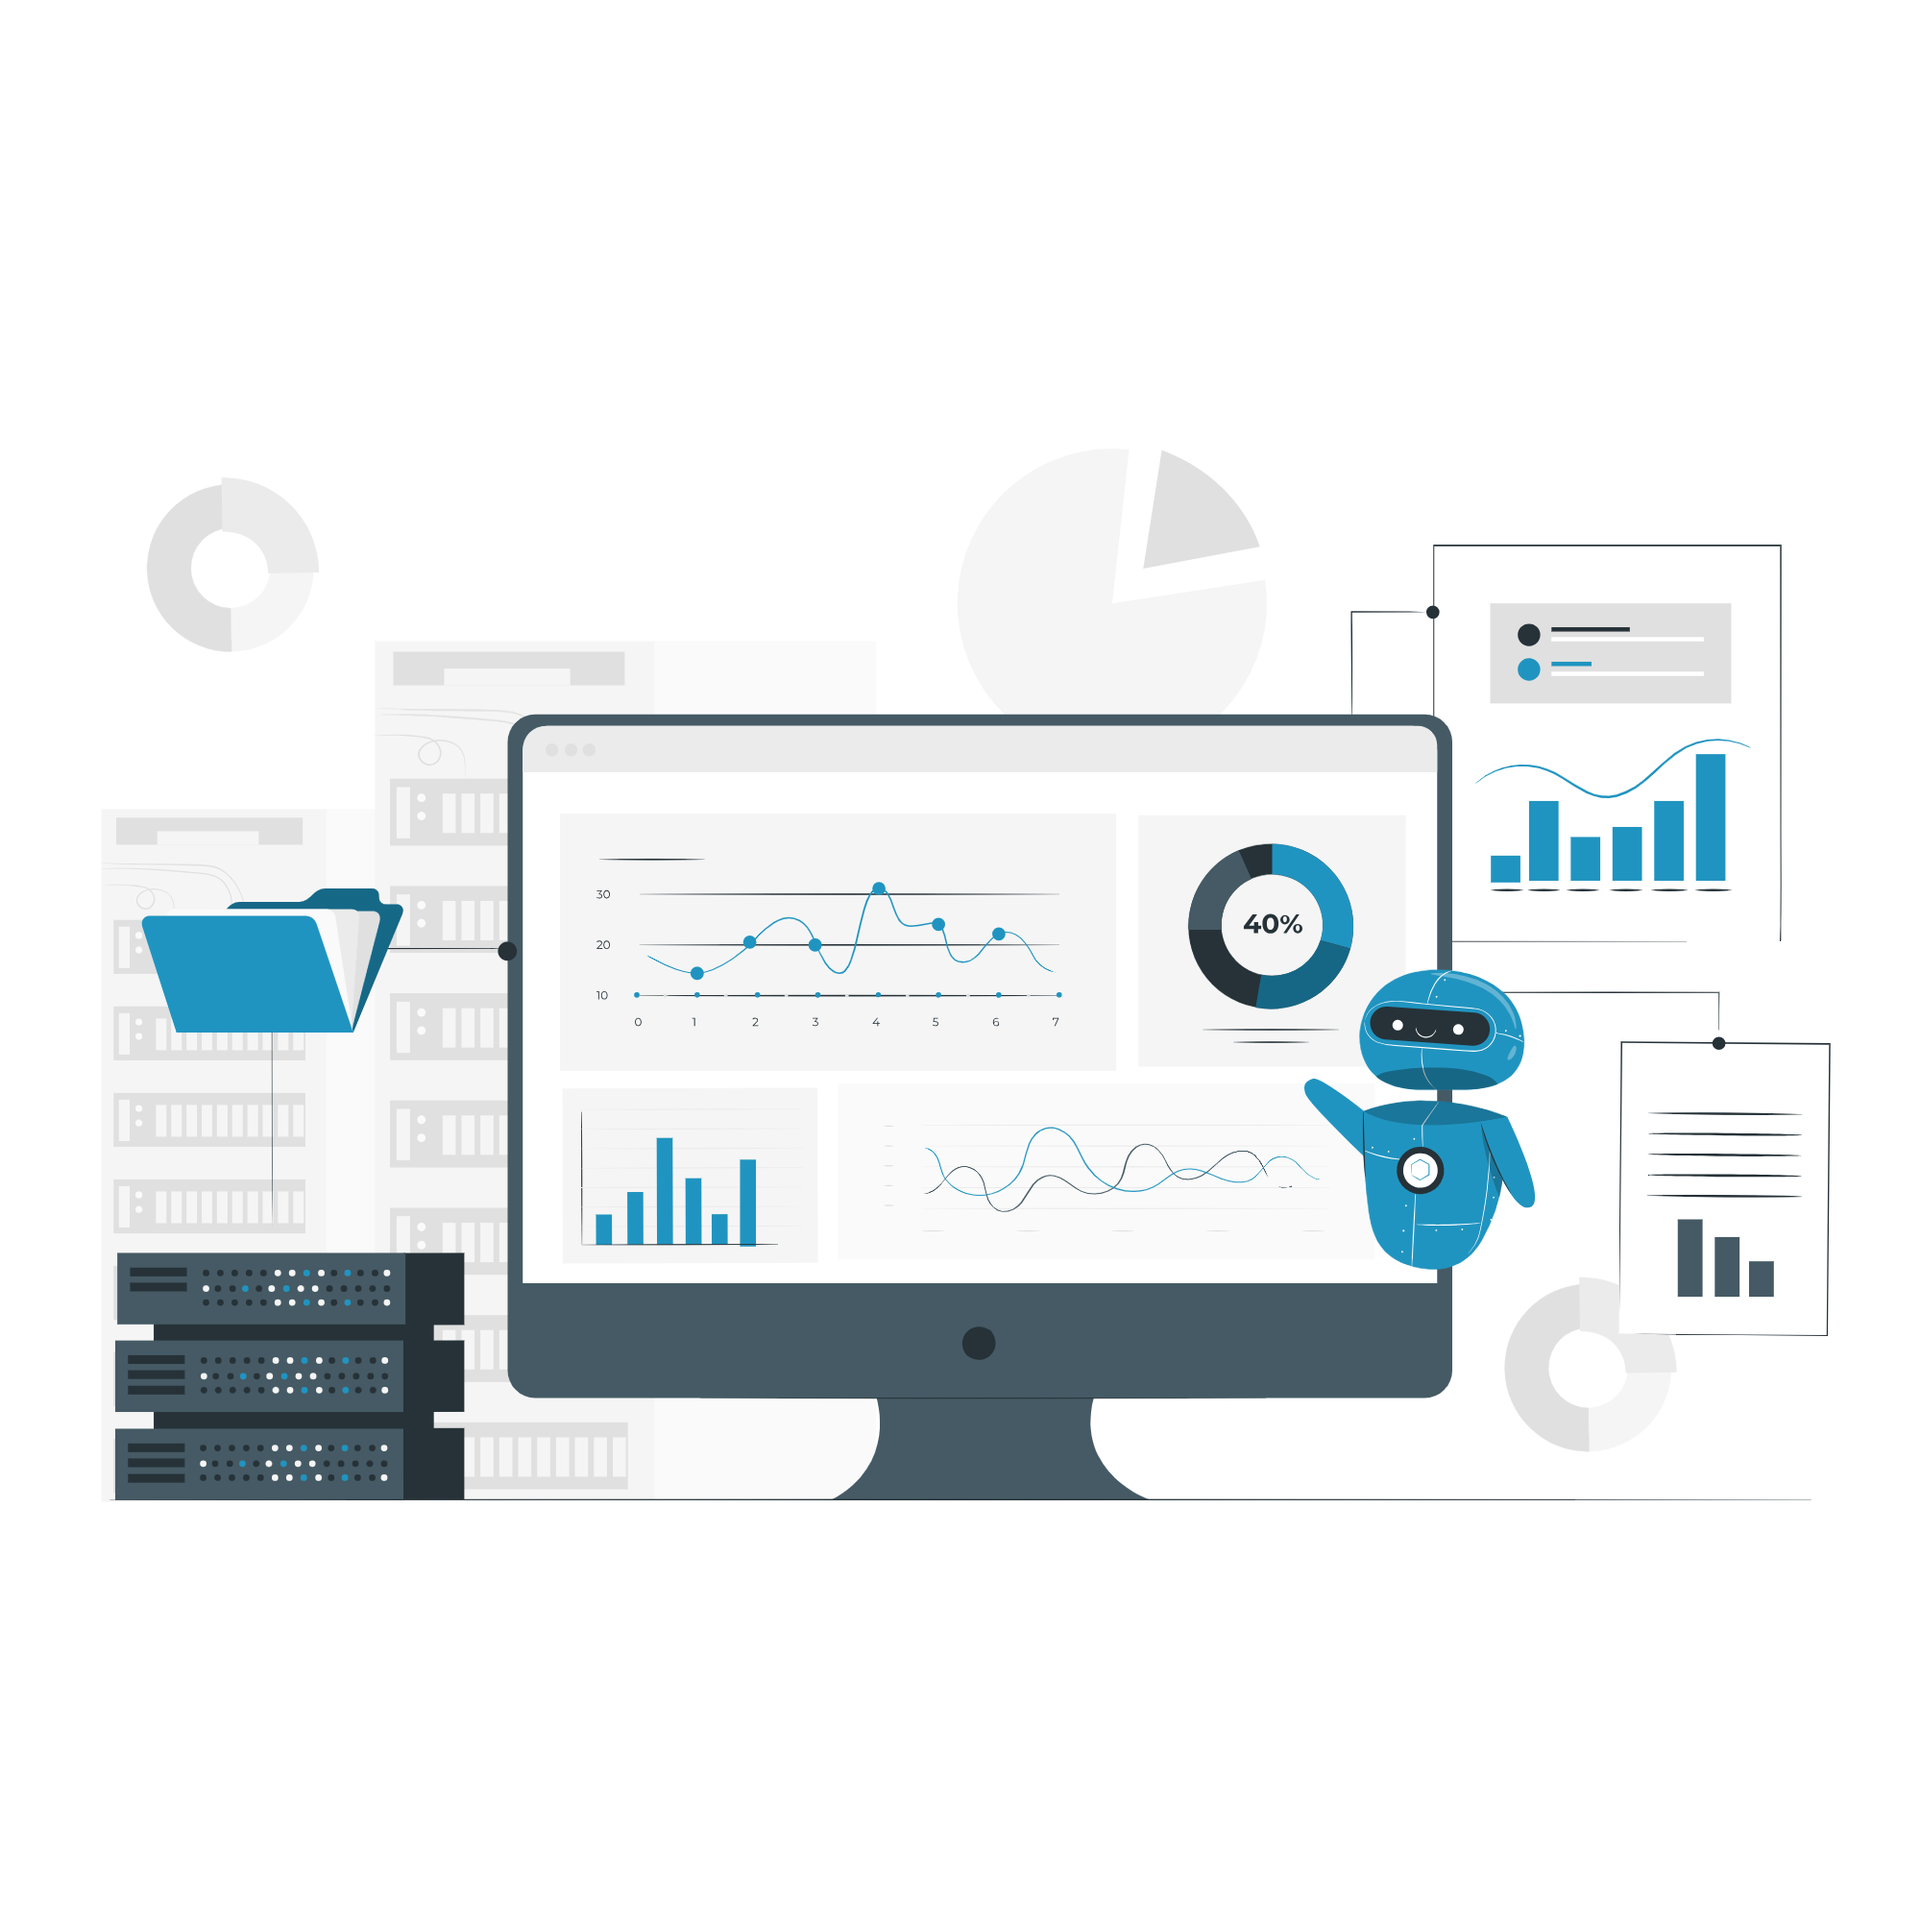
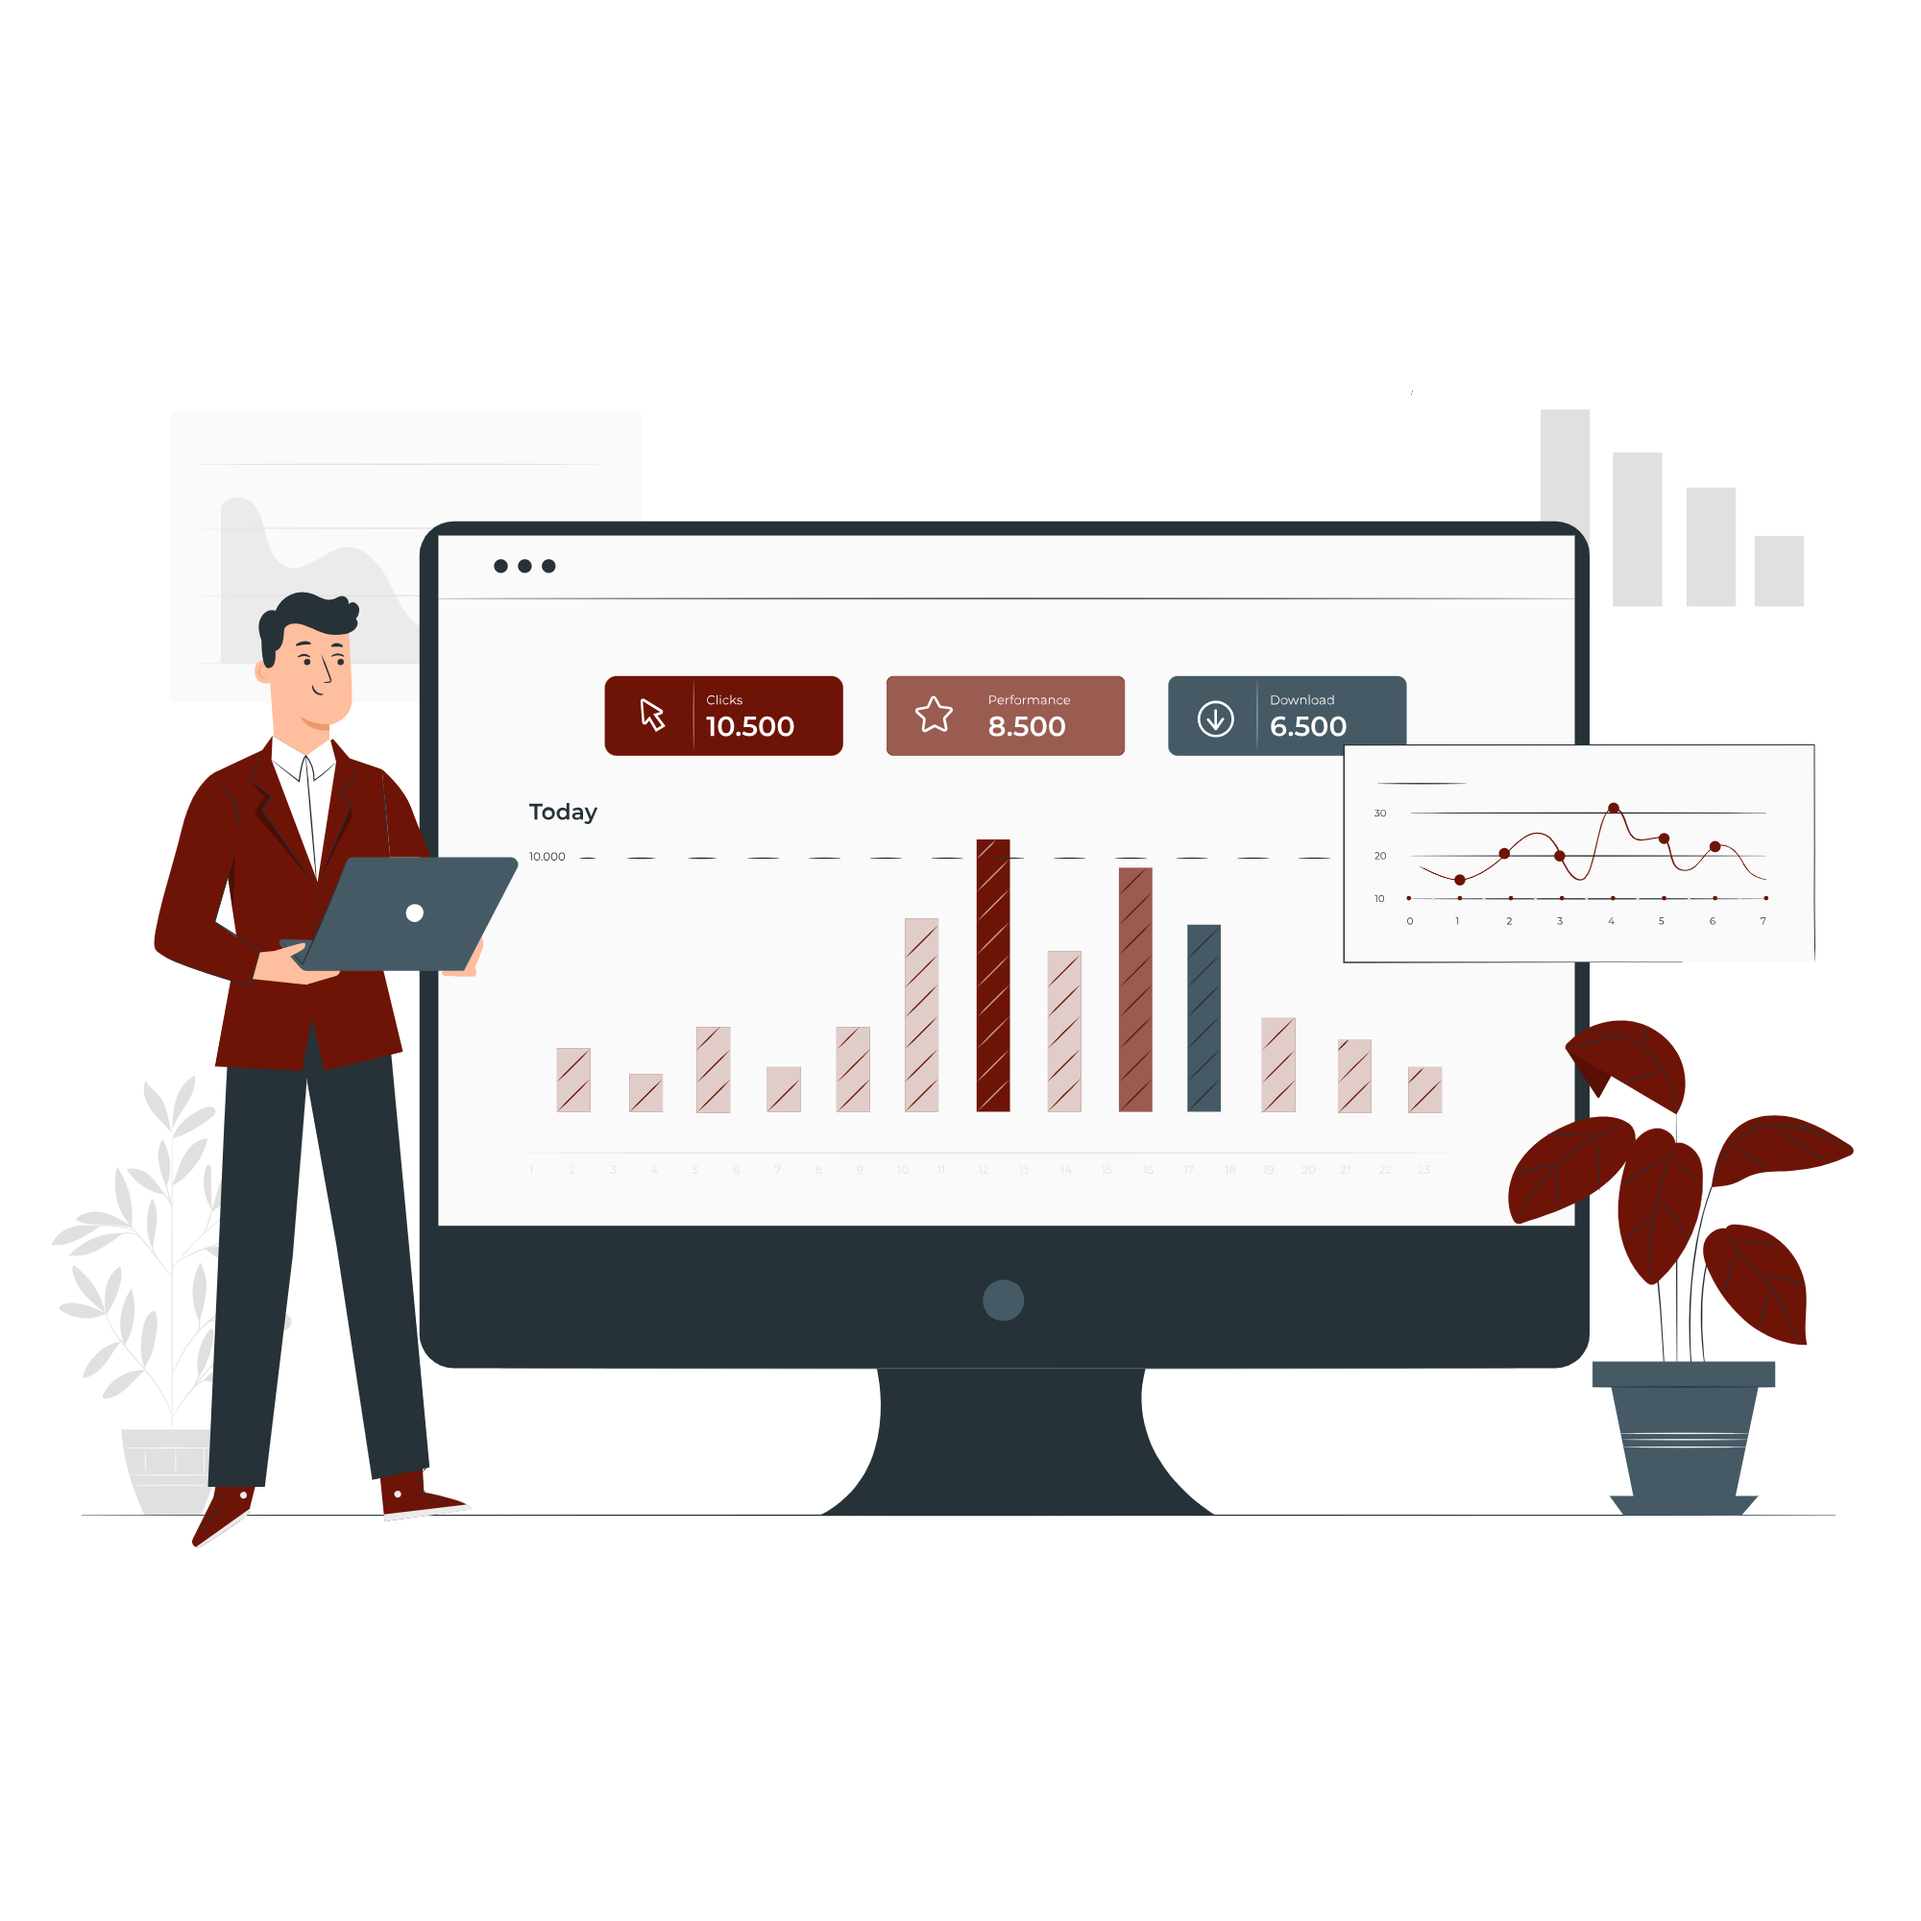
updated new images

Changed region(s): [[0.031, 0.217, 0.961, 0.806]]

diff --git a/pages/works.js b/pages/works.js
@@ -7,7 +7,7 @@ import thumbNoter from '../public/images/contents/Noter.png'
 import thumbDS from '../public/images/contents/daily-struggle-blog1.png'
 import thumbProjectGallery from '../public/images/contents/project-gallery-2.png'
 import thumbHextagram from '../public/images/contents/hextagram.png'
-import thumbPowerBI from '../public/images/contents/power-bi.png'
+import thumbPowerBI from '../public/images/contents/powerbi-project.png'
 import thumbMLProject from '../public/images/contents/ml-project.png'
 
 const Works = () => {

diff --git a/components/grid-item.js b/components/grid-item.js
@@ -54,6 +54,8 @@ export const GridItemStyle = () => (
     styles={`
       .grid-item-thumbnail {
         border-radius: 12px;
+        object-fit: cover;
+        width: 100%;
       }
     `}
   />
